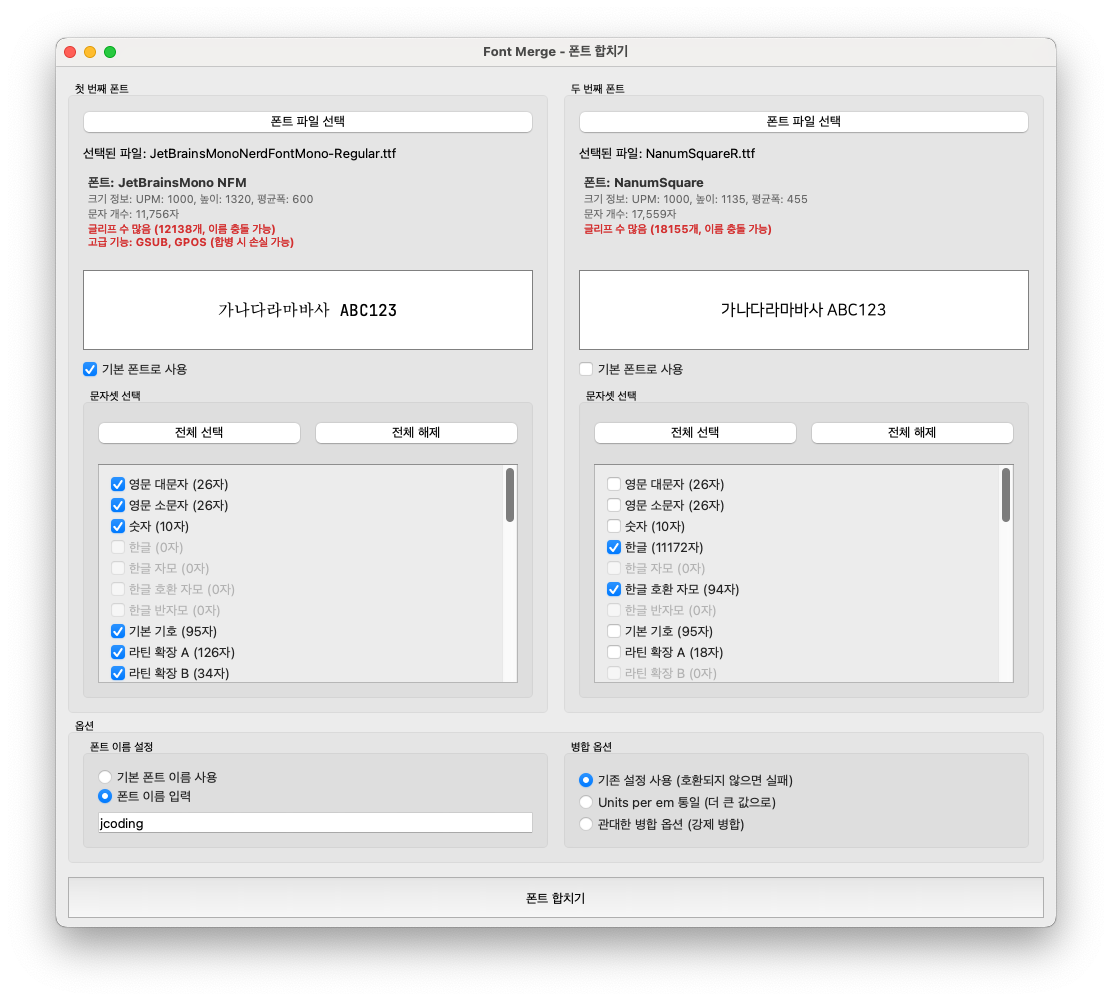
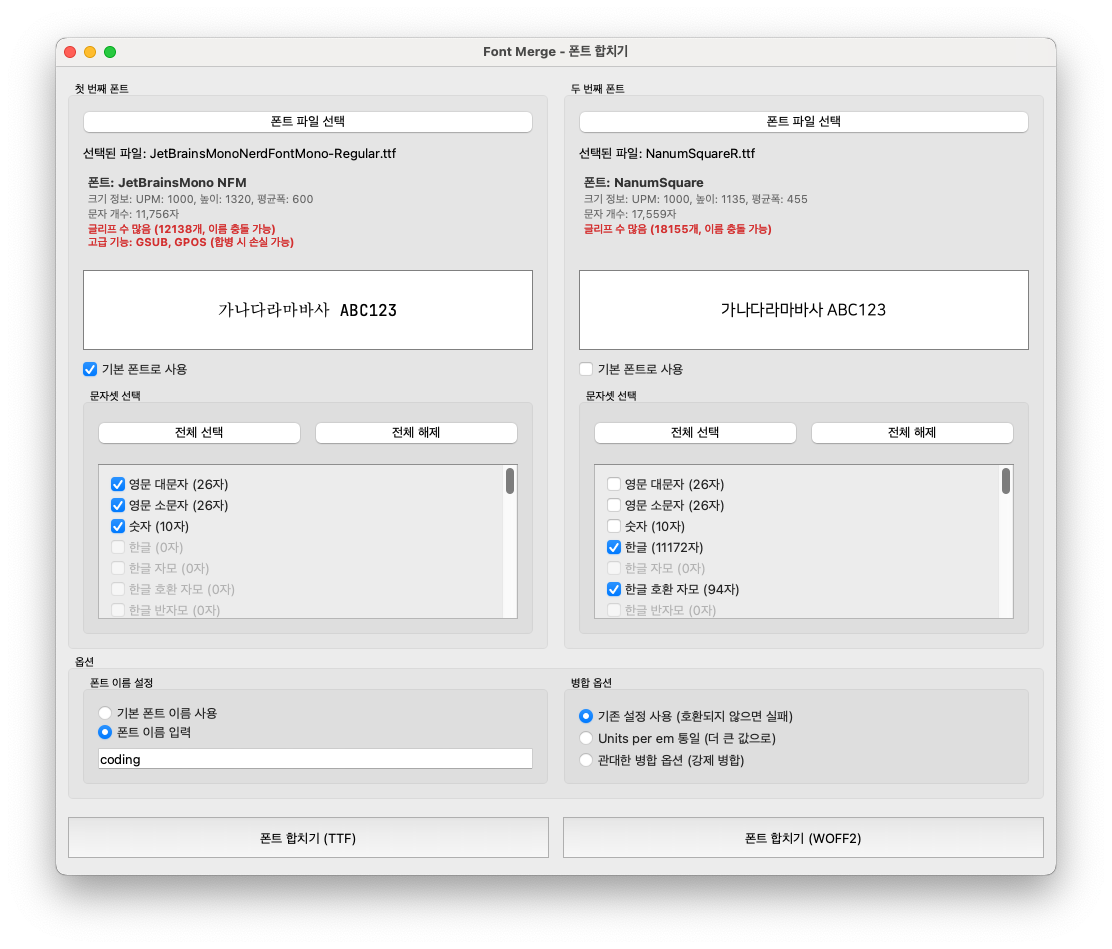
docs: README.md 내용 업데이트 및 스크린샷 변경

diff --git a/README.md b/README.md
@@ -2,26 +2,42 @@
 
 ![Font Merge Screenshot](imgaes/screen.png)
 
-Font Merge는 두 개의 폰트를 하나로 병합하는 PyQt6 기반 데스크톱 애플리케이션입니다. 직관적인 GUI를 통해 폰트를 선택하고, 각 폰트의 문자 집합을 선택하여 다양한 병합 옵션으로 결합할 수 있습니다.
+Font Merge는 두 개의 폰트를 하나로 병합하는 PyQt6 기반 데스크톱 애플리케이션입니다. 직관적인 GUI를 통해 폰트를 선택하고, 각 폰트의 문자 집합을 선택하여 **TTF** 또는 **WOFF2** 형식으로 병합할 수 있습니다.
 
 ## 주요 기능
 
 - **폰트 파일 선택**: TTF, OTF 등 다양한 폰트 형식 지원
 - **문자 집합 관리**: 영문 대소문자, 숫자, 한글, 특수 기호 등 문자 집합별 선택 가능
 - **실시간 미리보기**: 선택한 폰트의 미리보기와 문자 집합 시각화
+- **다양한 출력 형식**: **TTF** (범용) 및 **WOFF2** (웹 폰트) 형식으로 저장 가능
 - **병합 옵션**: 기본 병합, UPM 통일, 관대한 병합 등 다양한 병합 모드
 - **사용자 정의 파일명**: 사용자 정의 이름 또는 기본 폰트 이름 기반 파일명 설정
+- **웹 폰트 최적화**: WOFF2 형식 생성 시 웹 호환성을 위한 자동 최적화
+- **자동 백업**: WOFF2 생성 시 TTF 백업 파일도 함께 생성
 
 ## 설치 및 실행
 
 ### 개발 환경
 
+#### 필수 의존성
+```bash
+# uv 패키지 매니저를 사용하여 의존성 설치
+uv sync
+
+# 또는 pip 사용
+pip install -r requirements.txt
+```
+
+#### 애플리케이션 실행
 ```bash
 # 애플리케이션 실행
 python -m font_merge.main
 # 또는
 python main.py
+```
 
+#### 코드 품질 도구
+```bash
 # 코드 포맷팅
 ruff format .
 
@@ -50,16 +66,29 @@ python build_and_package.py
 1. **좌측/우측 폰트 선택**: "폰트 파일 선택" 버튼을 클릭하여 병합할 폰트 파일을 선택합니다.
 2. **문자 집합 선택**: 각 폰트에서 포함할 문자 집합을 체크박스로 선택합니다.
 3. **병합 옵션 설정**: 
-   - 기본 설정 사용 (호환되지 않을 실패)
-   - Units per em 통일 (더 큰 값으로)
-   - 관대한 병합 옵션 (강제 병합)
-4. **파일명 설정**: 출력할 폰트 파일의 이름을 설정합니다.
-5. **폰트 합치기**: 하단의 "폰트 합치기" 버튼을 클릭하여 병합을 실행합니다.
+   - **기본 설정 사용**: 호환되지 않으면 실패 (가장 안전)
+   - **Units per em 통일**: 폰트 크기 단위를 더 큰 값으로 통일
+   - **관대한 병합 옵션**: 호환성 문제를 우회하여 강제 병합
+4. **폰트 이름 설정**: 
+   - **기본 폰트 이름 사용**: 선택된 기본 폰트의 이름 사용
+   - **사용자 정의 이름**: 원하는 폰트 이름 직접 입력
+5. **출력 형식 선택 및 병합**:
+   - **"폰트 합치기 (TTF)"**: 범용적으로 사용 가능한 TTF 형식으로 저장
+   - **"폰트 합치기 (WOFF2)"**: 웹 폰트용 WOFF2 형식으로 저장 (TTF 백업 파일도 함께 생성)
+
+### 출력 형식 선택 가이드
+
+| 형식 | 용도 | 특징 | 권장 사용처 |
+|------|------|------|-------------|
+| **TTF** | 데스크톱/모바일 앱 | 범용 호환성, 큰 파일 크기 | 시스템 폰트, 데스크톱 애플리케이션 |
+| **WOFF2** | 웹 폰트 | 작은 파일 크기, 빠른 로딩 | 웹사이트, 웹 애플리케이션 |
 
 ## 기술 스택
 
 - **GUI 프레임워크**: PyQt6
 - **폰트 처리**: fontTools 라이브러리
+- **WOFF2 압축**: brotli 라이브러리
+- **패키지 관리**: uv (권장) 또는 pip
 - **빌드 도구**: PyInstaller
 - **코드 품질**: ruff (포맷팅 및 린팅)
 
@@ -74,10 +103,15 @@ python build_and_package.py
 
 ### 폰트 처리 기능
 
-- 특정 문자 집합 추출을 위한 폰트 서브셋팅
-- 설정 가능한 옵션을 통한 폰트 병합
-- 문자 집합 분석 및 유니코드 범위 감지
-- 합자(ligature) 지원 복원
+- **서브셋팅**: 특정 문자 집합 추출을 위한 폰트 서브셋팅
+- **다양한 병합 옵션**: 기본, UPM 통일, 관대한 병합 모드
+- **문자 집합 분석**: 유니코드 범위 감지 및 시각화
+- **합자 지원**: 합자(ligature) 기능 보존 및 복원
+- **형식 변환**: TTF ↔ WOFF2 상호 변환
+- **웹 최적화**: WOFF2 생성 시 웹 호환성 자동 최적화
+  - fsType 최적화 (웹 사용 허용)
+  - 메타데이터 정리
+  - 파일 크기 최적화
 
 ## 라이선스
 
